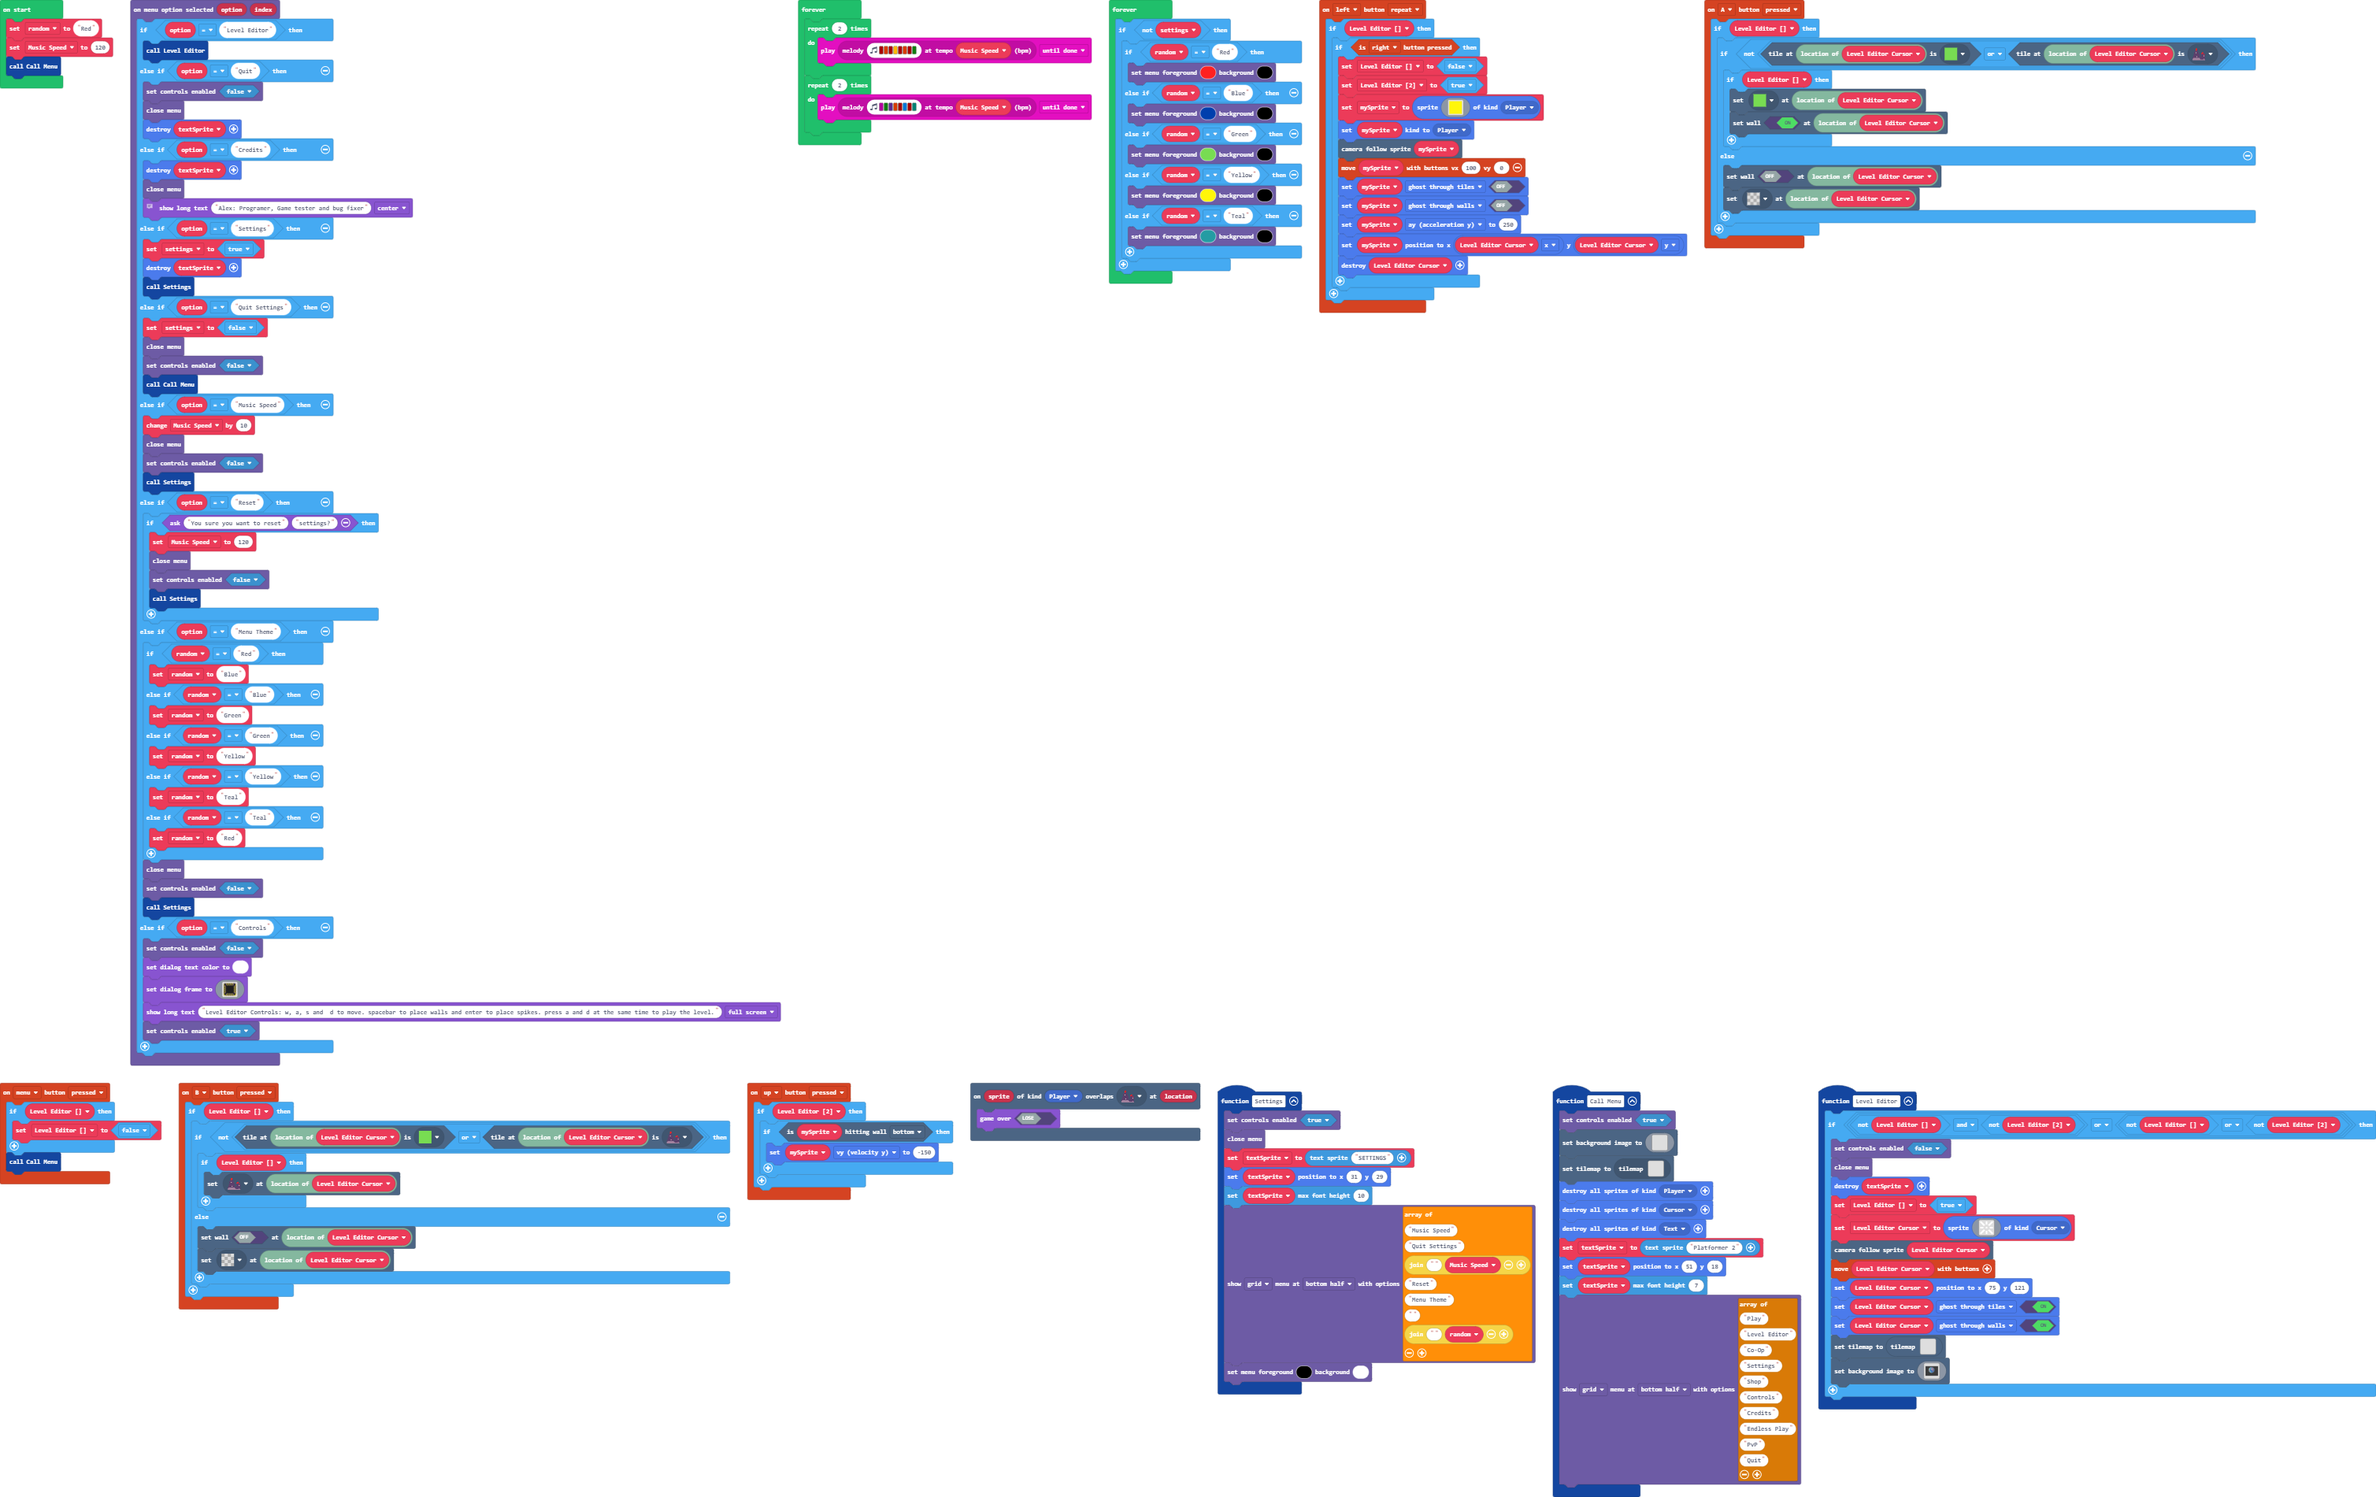
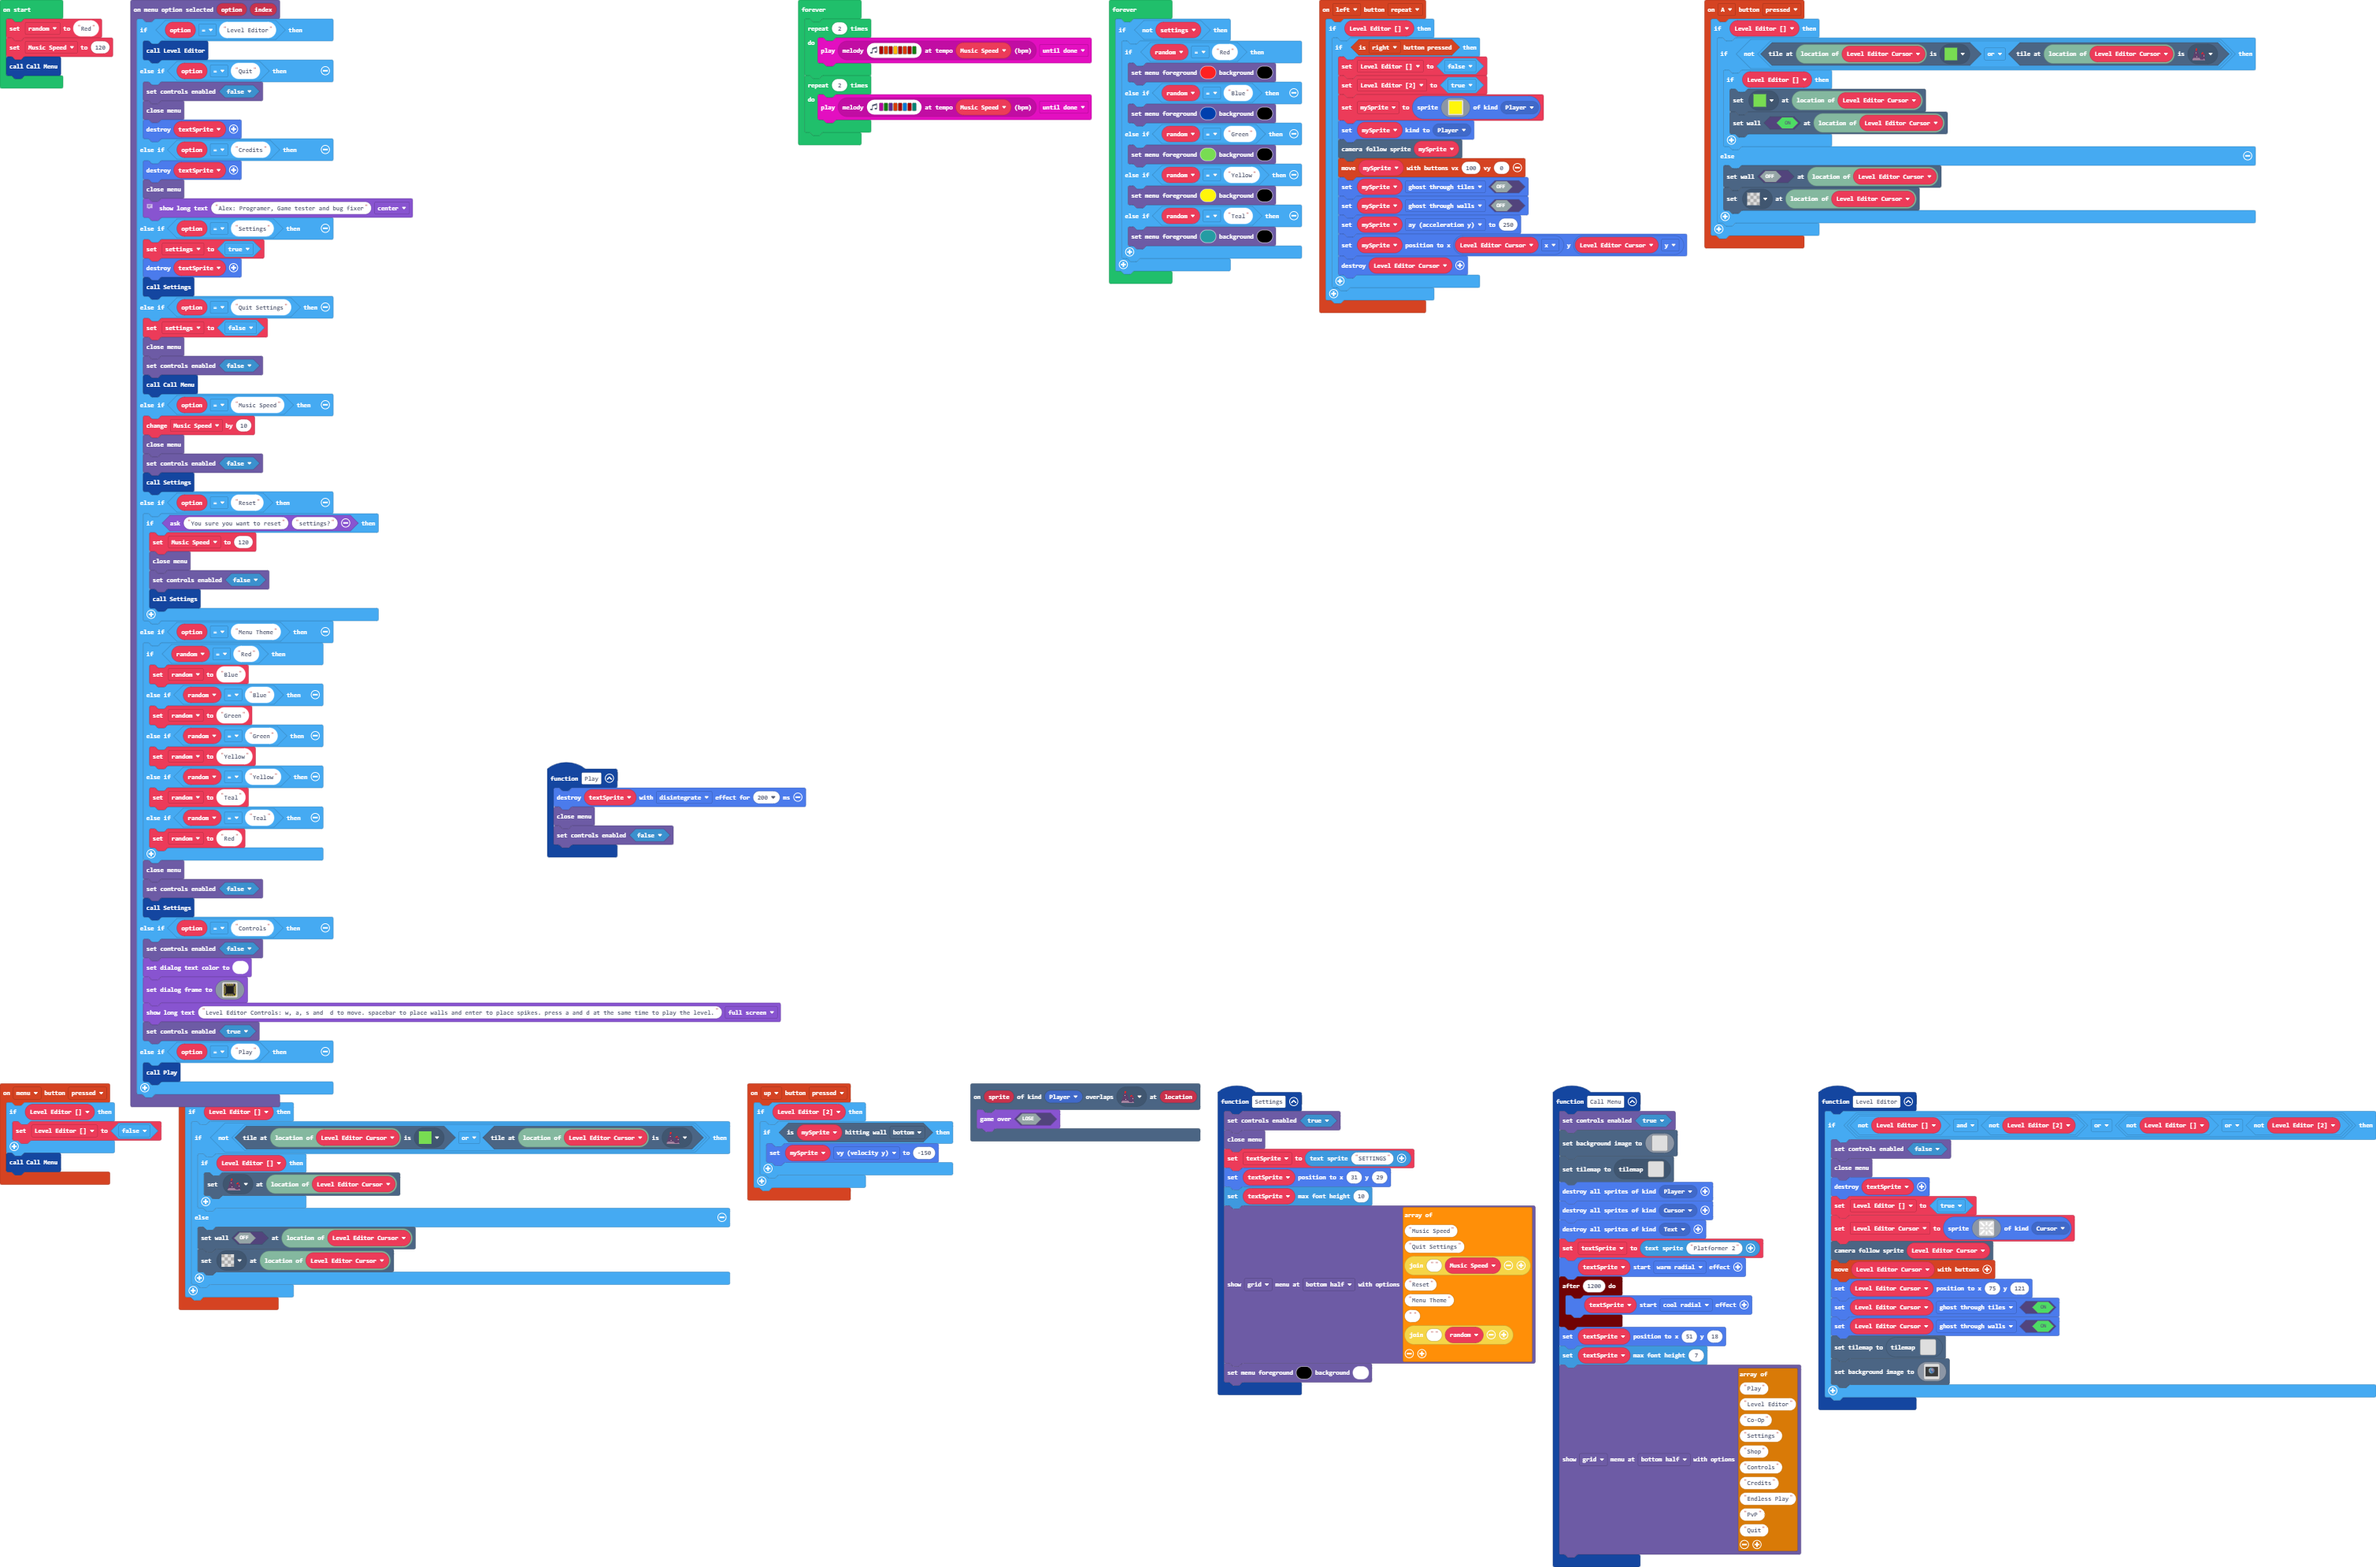
Update main.blocks, main.ts

Changed region(s): [[0.0, 0.0, 1.0, 0.9932], [0.3427, 0.0, 0.9659, 0.2173], [0.2181, 0.4655, 0.3427, 0.5587]]

diff --git a/main.ts b/main.ts
@@ -12,6 +12,11 @@ controller.up.onEvent(ControllerButtonEvent.Pressed, function () {
         }
     }
 })
+function Play () {
+    sprites.destroy(textSprite, effects.disintegrate, 200)
+    blockMenu.closeMenu()
+    blockMenu.setControlsEnabled(false)
+}
 controller.B.onEvent(ControllerButtonEvent.Pressed, function () {
     if (Level_Editor_) {
         if (!(tiles.tileAtLocationEquals(tiles.locationOfSprite(Level_Editor_Cursor), assets.tile`myTile`) || tiles.tileAtLocationEquals(tiles.locationOfSprite(Level_Editor_Cursor), assets.tile`myTile0`))) {
@@ -183,6 +188,10 @@ function Call_Menu () {
     sprites.destroyAllSpritesOfKind(SpriteKind.Cursor)
     sprites.destroyAllSpritesOfKind(SpriteKind.Text)
     textSprite = textsprite.create("Platformer 2")
+    textSprite.startEffect(effects.warmRadial)
+    timer.after(1200, function () {
+        textSprite.startEffect(effects.coolRadial)
+    })
     textSprite.setPosition(51, 18)
     textSprite.setMaxFontHeight(7)
     blockMenu.showMenu([
@@ -437,6 +446,8 @@ blockMenu.onMenuOptionSelected(function (option, index) {
             `)
         game.showLongText("Level Editor Controls: w, a, s and  d to move. spacebar to place walls and enter to place spikes. press a and d at the same time to play the level.", DialogLayout.Full)
         blockMenu.setControlsEnabled(true)
+    } else if (option == "Play") {
+        Play()
     }
 })
 controller.left.onEvent(ControllerButtonEvent.Repeated, function () {
@@ -474,9 +485,9 @@ controller.left.onEvent(ControllerButtonEvent.Repeated, function () {
     }
 })
 let settings2 = false
-let textSprite: TextSprite = null
 let Level_Editor_Cursor: Sprite = null
 let Level_Editor_ = false
+let textSprite: TextSprite = null
 let mySprite: Sprite = null
 let Level_Editor_2 = false
 let Music_Speed = 0
